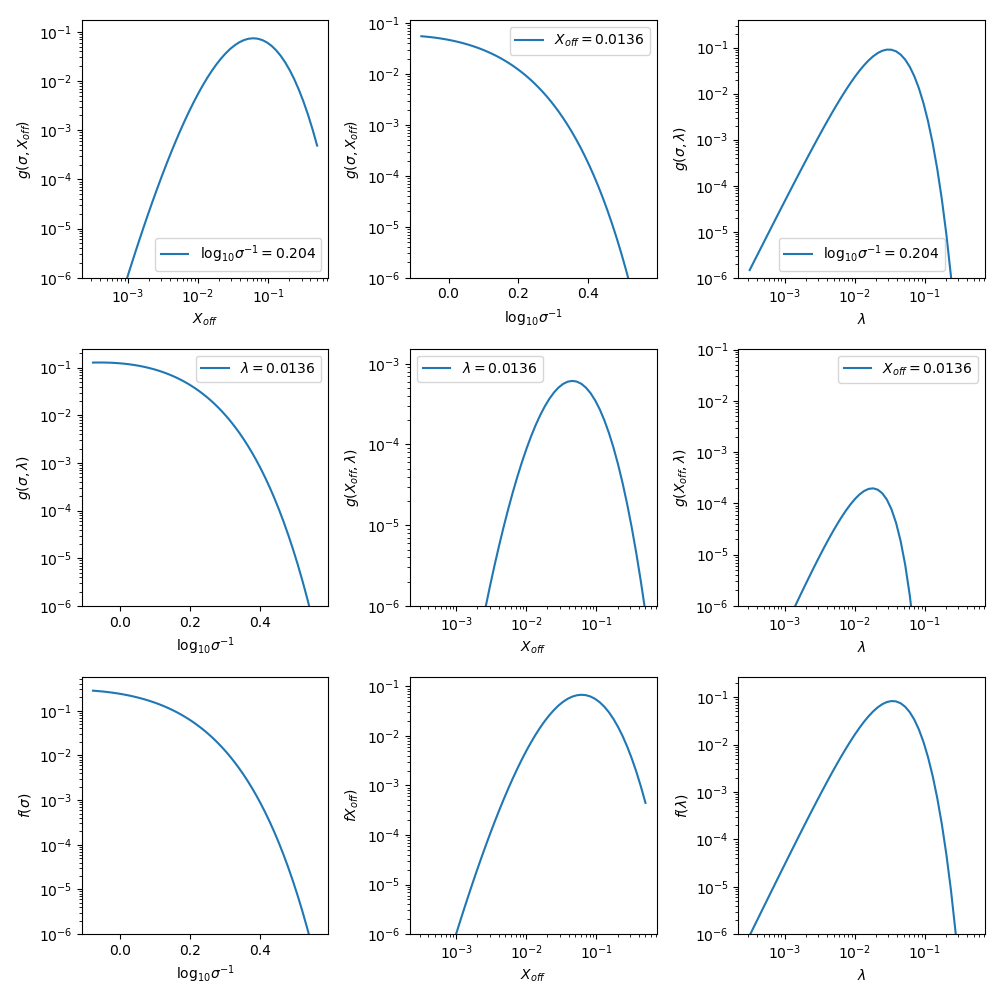
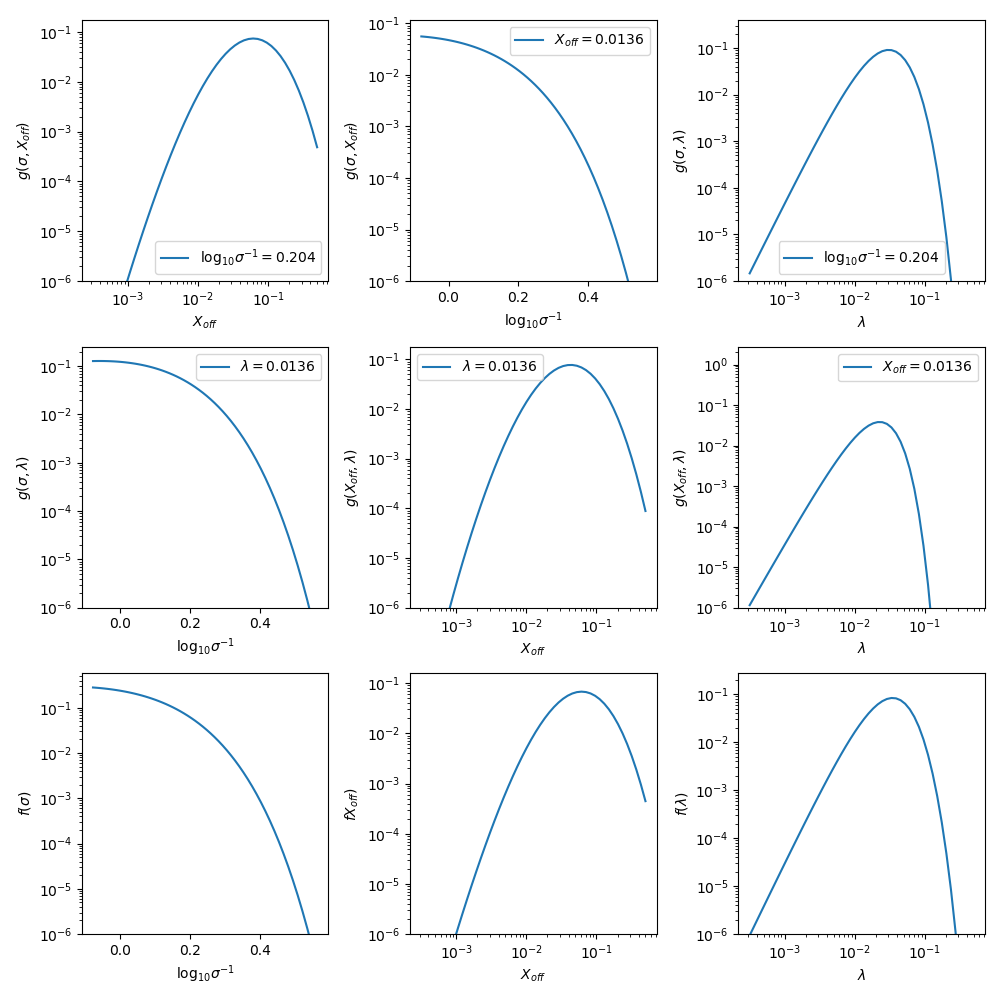
fixed z to not None

diff --git a/test.py b/test.py
@@ -33,14 +33,14 @@ xoff3 = np.array([0.1])
 spin3 = np.array([0.1])
 
 #build model and integrate it
-g_sigma_xoff = model_seppi20.seppi20(sigma,xoff,z=0,int_xoff=False)
-g_sigma_spin = model_seppi20.seppi20(sigma,spin,z=0,int_spin=False)
-g_xoff_spin = model_seppi20.seppi20(xoff,spin,z=0,int_sigma=True, int_xoff=False, int_spin=False)
-f_sigma = model_seppi20.seppi20(sigma,xoff,spin,z=0)
-f_xoff = model_seppi20.seppi20(sigma,xoff,spin,z=0,int_xoff=False, int_sigma=True)
-f_spin = model_seppi20.seppi20(sigma,xoff,spin,z=0,int_spin=False, int_sigma=True)
-f_sigma2 = model_seppi20.seppi20(sigma,xoff2,spin2,z=0)
-f_sigma3 = model_seppi20.seppi20(sigma,xoff3,spin3,z=0)
+g_sigma_xoff = model_seppi20.seppi20(sigma,z=0,xoff=xoff,int_xoff=False)
+g_sigma_spin = model_seppi20.seppi20(sigma,z=0,spin=spin,int_spin=False)
+g_xoff_spin = model_seppi20.seppi20(sigma=None,z=0,xoff=xoff,spin=spin,int_sigma=True, int_xoff=False, int_spin=False)
+f_sigma = model_seppi20.seppi20(sigma,z=0,xoff=xoff,spin=spin)
+f_xoff = model_seppi20.seppi20(sigma,z=0,xoff=xoff,spin=spin,int_xoff=False, int_sigma=True)
+f_spin = model_seppi20.seppi20(sigma,z=0,xoff=xoff,spin=spin,int_spin=False, int_sigma=True)
+f_sigma2 = model_seppi20.seppi20(sigma,z=0,xoff=xoff2,spin=spin2)
+f_sigma3 = model_seppi20.seppi20(sigma,z=0,xoff=xoff3,spin=spin3)
 
 #use bhattacharya11, despali16 and comparat17 for comparison
 mf_tinker=mf.massFunction(sigma,q_in='sigma', z=0, mdef = 'vir', model = 'tinker08', q_out = 'f') 

diff --git a/HMF_dyn_state_colossus/model_seppi20.py b/HMF_dyn_state_colossus/model_seppi20.py
@@ -3,7 +3,7 @@ import numpy as np
 from scipy import integrate
 
 
-def seppi20(sigma,xoff=None,spin=None,z=None,int_sigma=False,int_xoff=True,int_spin=True):
+def seppi20(sigma,z,xoff=None,spin=None,int_sigma=False,int_xoff=True,int_spin=True):
     """
 	The mass function model of Seppi et al 2020.
 	
@@ -62,8 +62,6 @@ def seppi20(sigma,xoff=None,spin=None,z=None,int_sigma=False,int_xoff=True,int_s
         xoff = np.logspace(-3.5,-0.3,50)
     if spin is None:
         spin = np.logspace(-3.5,-0.3,50)
-    if z is None:
-        z=0
 
     sigma_,xoff_,spin_ = np.meshgrid(sigma,xoff,spin,indexing='ij')
 
